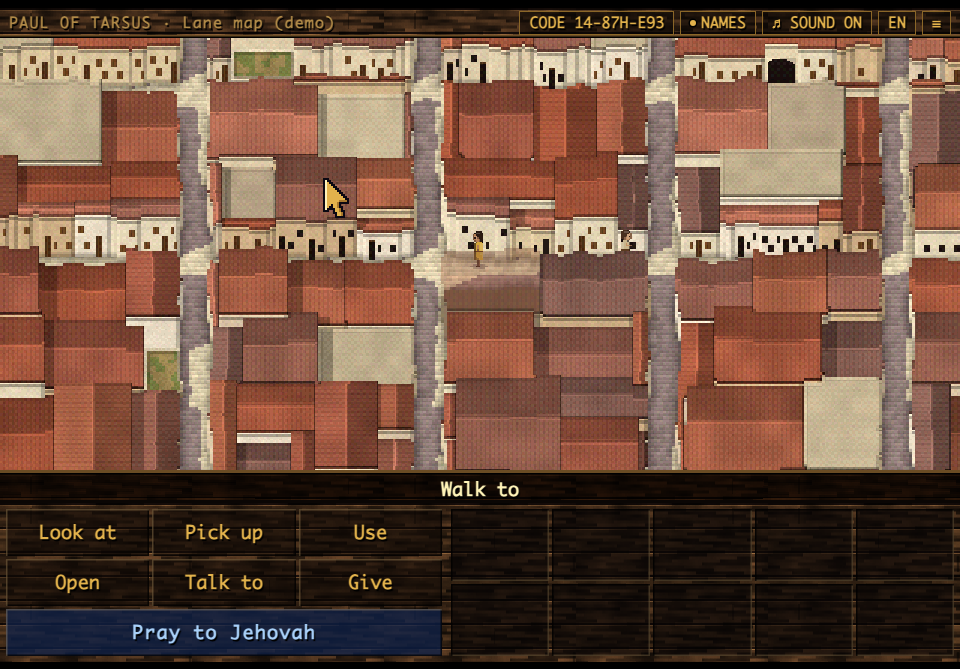
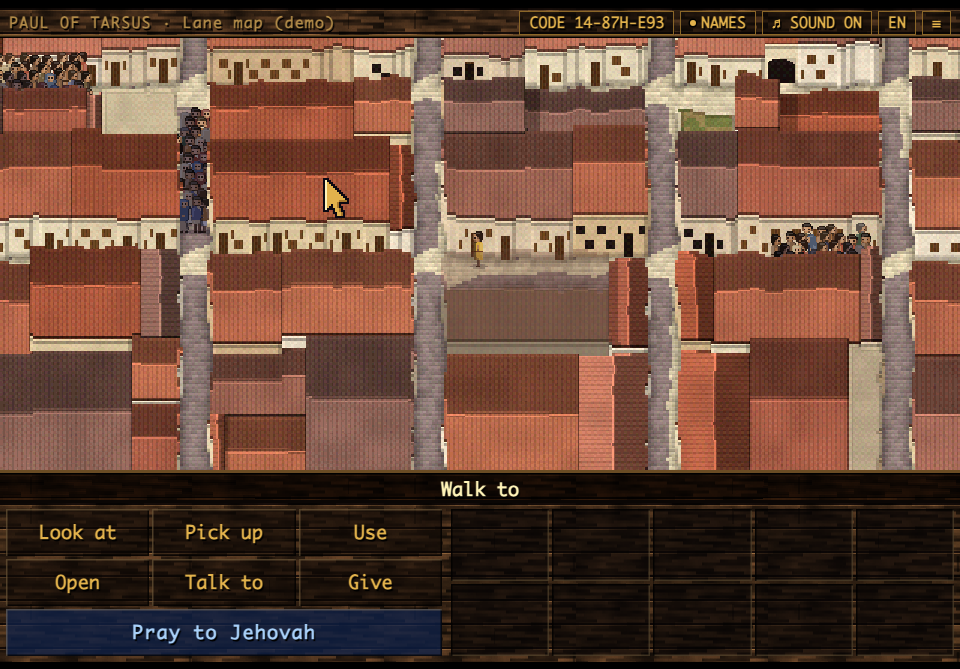
Lane map: houses as large as the prototype's, clearer roofs, and jams in the uproar
- Houses are built on larger lots (about as large against the people as
  the oblique prototype's), with wider doors and windows; few flat roofs,
  and most ridges run east and west. The roofs are modelled more clearly:
  lit and shaded slopes, a bright ridge, a dark line at the eaves. The
  sizes are settings of the map (lot, door, win, winH, doorH, flat, ew).
  The demo page keeps ?houses=small for comparison until the maintainer
  has chosen.
- Jams (def.jams): in the uproar three narrow streets are packed with
  people who cannot get through themselves; nobody passes them, so the
  runner has to go round, and he says so when he walks up to one or steers
  into it. The playtest checks that the way to the house is longer with
  them.

diff --git a/shared/lanes.js b/shared/lanes.js
@@ -34,6 +34,9 @@
                      source with doors:[x, y] and r sends them out of the doors of the houses within r of that place, never out of a house
                      whose shutters are bolted (cue), and the door stands open behind each for a moment
        zones         [{x, y, w, h, enter()}]: places the chapter is told of when whoever is played walks into them (a court, say)
+       jams          {variant: [{x, y, w, h, face}]}: narrow streets packed with people who cannot get through themselves; nobody passes
+                     them, and whoever is played stops before one (press is called, as when the crowd presses him back)
+       flat, ew      how often a roof is flat (0.1), and how wide a house must be against its depth for its ridge to run east and west (0.85)
        targets       {name:[x, y]}: places whose distance along the lanes the chapter asks for (dist), as the sound does
        pace(a)       'run' or 'walk', for whoever is played; press(): someone was pressed back by the crowd (the chapter may say so)
        room          the room's own fields: hs, mood, amb, enter, space ...
@@ -111,7 +114,7 @@ function houses(def,K){const W=def.w,H=def.h,S=def.lot||15,r=rng((def.seed||1)*3
     if(!n)break}
   for(let id=1;id<HS.length;id++){const L=px[id];if(!L||!L.length){HS[id]=null;continue}let x0=W,y0=H,x1=0,y1=0;for(const q of L){const x=q%W,y=(q/W)|0;if(x<x0)x0=x;if(x>x1)x1=x;if(y<y0)y0=y;if(y>y1)y1=y}
     /* hw: how tall the house's front wall stands, in room pixels: one storey or two, as in the city maps of those games */
-    const h=HS[id],bw=x1-x0+1,bh=y1-y0+1,flat=r()<.1,hw0=r()<.4?8+Math.round(r()*4)/2:11.5+Math.round(r()*5)/2;Object.assign(h,{x0,y0,x1,y1,n:L.length,ew:bw>=bh*.85,hw:hw0,flat,
+    const h=HS[id],bw=x1-x0+1,bh=y1-y0+1,flat=r()<(def.flat==null?.1:def.flat),hw0=r()<.4?8+Math.round(r()*4)/2:11.5+Math.round(r()*5)/2;Object.assign(h,{x0,y0,x1,y1,n:L.length,ew:bw>=bh*(def.ew||.85),hw:hw0,flat,
       roof:flat?FLAT[(r()*FLAT.length)|0]:ROOFS[(r()*ROOFS.length)|0],wall:WALLS[(r()*WALLS.length)|0],seed:(r()*1e6)|0});
     /* now and then a walled yard with a tree in it instead of a house */
     if(L.length>=90&&L.length<=420&&r()<.06){h.yard=true;h.flat=false;h.hw=2.5}
@@ -130,20 +133,21 @@ const SHADE=[.66,.62,.7];   /* the sun's shadow, multiplied in: a little cool */
    its door and its windows (feat): windows two columns wide on the ground floor, and on a house of two storeys windows above, set between
    those below and never over them, so that four of them never stand two by two. The doors are listed (doors): the crowd steps out of them.
    Worked out once, when the map is made. */
-const DOORH=7;   /* how tall a door is, in room pixels: about half a figure, as in the city maps of those games */
+const DOORH=7;   /* how tall a door is, in room pixels: about half a figure, as in the city maps of those games (def.doorH; def.door and def.win:
+                    how many room pixels wide a door and a window are, 2 by default; def.winH: how tall a window is, 2.5) */
 function fronts(M){const def=M.def,W=def.w,H=def.h,K=M.K,{hid,HS}=M.H,isH=i=>K[i]===BUILT&&hid[i]>0;
   const dn=new Int16Array(W*H),up=new Int16Array(W*H),lf=new Int16Array(W*H),rt=new Int16Array(W*H),end=new Uint8Array(W*H),below=new Int32Array(W*H);
   for(let x=0;x<W;x++){for(let y=H-1;y>=0;y--){const i=y*W+x;if(!isH(i))continue;const b=y<H-1?i+W:-1;if(b>=0&&isH(b)&&hid[b]===hid[i]){dn[i]=dn[b]+1;end[i]=end[b];below[i]=below[b]}else{dn[i]=0;end[i]=b<0?2:isH(b)?2:K[b]===KEEP?2:1;below[i]=b>=0&&isH(b)?hid[b]:0}}
     for(let y=0;y<H;y++){const i=y*W+x;if(!isH(i))continue;const a=i-W;up[i]=y>0&&isH(a)&&hid[a]===hid[i]?up[a]+1:0}}
   for(let y=0;y<H;y++){for(let x=0;x<W;x++){const i=y*W+x;if(!isH(i))continue;lf[i]=x>0&&isH(i-1)&&hid[i-1]===hid[i]?lf[i-1]+1:0}
     for(let x=W-1;x>=0;x--){const i=y*W+x;if(!isH(i))continue;rt[i]=x<W-1&&isH(i+1)&&hid[i+1]===hid[i]?rt[i+1]+1:0}}
-  const feat=new Uint8Array(W*H),doors=[];   /* feat: 1 door, 2 window above, 3 window below */
+  const feat=new Uint8Array(W*H),doors=[],DW=def.door||2,WW=def.win||2,PER=2*WW+1,DH=def.doorH||DOORH;   /* feat: 1 door, 2 window above, 3 window below */
   for(let id=1;id<HS.length;id++){const h=HS[id];if(!h||h.yard)continue;const r=rng(h.seed),cols=[];
     for(let x=h.x0;x<=h.x1;x++){let best=-1;for(let y=h.y1;y>=h.y0;y--){const i=y*W+x;if(hid[i]===id&&K[i]===BUILT&&dn[i]===0&&end[i]===1){best=i;break}}cols.push(best)}
-    let run=[];const flush=()=>{if(run.length>=5){const L=run.length,door=L>=6&&r()<.85?1+((r()*(L-3))|0):-9,free=k=>k>0&&k<L-1&&Math.abs(k-door)>1&&Math.abs(k-door-1)>1;
-        for(let k=0;k<L;k++){const i=run[k],m=(k+h.seed)%5;if(k===door||k===door+1)feat[i]=1;
-          else if(h.hw>=11&&(m===1||m===2)&&free(k))feat[i]=2;else if(h.hw>=6&&(m===3||m===4)&&free(k))feat[i]=3}
-        if(door>=0){const i=run[door],x=i%W,y=(i/W)|0;if(run[door+1]===i+1)doors.push({x,y,h:Math.min(h.hw-2,DOORH),house:h})}}run=[]};
+    let run=[];const flush=()=>{if(run.length>=DW+3){const L=run.length,door=L>=DW+4&&r()<.85?1+((r()*(L-DW-2))|0):-99,free=k=>k>0&&k<L-1&&(k<door-1||k>door+DW);
+        for(let k=0;k<L;k++){const i=run[k],m=(k+h.seed)%PER;if(k>=door&&k<door+DW)feat[i]=1;
+          else if(h.hw>=11&&m>=1&&m<=WW&&free(k))feat[i]=2;else if(h.hw>=6&&m>WW&&m<=2*WW&&free(k))feat[i]=3}
+        if(door>=0){const i=run[door],x=i%W,y=(i/W)|0;if(run[door+DW-1]===i+DW-1)doors.push({x,y,w:DW,h:Math.min(h.hw-2,DH),house:h})}}run=[]};
     for(const i of cols){if(i>=0&&(!run.length||i===run[run.length-1]+1))run.push(i);else{flush();if(i>=0)run.push(i)}}flush()}
   return{dn,up,lf,rt,end,below,feat,doors}}
 /* the ground: the lanes paved with small stones, the streets with slabs, the squares with great ones, darker at the foot of a wall and in
@@ -194,23 +198,26 @@ function sprite(M,h,v){const def=M.def,W=def.w,K=M.K,{hid,HS}=M.H,{dn,up,lf,rt,f
     else{const L=dL+dR,rp=L*.5;face=dL<rp?'W':'E';ridge=Math.abs(dL-rp)<.5}
     const edge=dDn<.6;let kk;
     if(h.flat){kk=1+(vn(nzA,x*.2,y*.2)-.5)*.1+(hash2(WX,WY,h.seed)-.5)*.05;if(dL<.6||dUp<.6)kk*=1.07;if(dR<.6)kk*=.84;if(edge)kk*=.7;if(dL>=.6&&dL<1.1||dUp>=.6&&dUp<1.1)kk*=.9}
-    else{kk=face==='S'?1:face==='W'?1.04:face==='N'?.8:.74;
+    else{/* the slopes as the sun in the west-south-west finds them, clearly apart, as in the city maps of those games: the south and west
+         slopes lit, the north and east ones in shade; a bright ridge, the back edge of the roof catching the light, a dark line at the eaves */
+      kk=face==='S'?1.06:face==='W'?1.1:face==='N'?.68:.64;
       /* the cover tiles run down each slope and stop short of the ridge, so that no stripe crosses it */
-      if(ridge)kk*=1.12;else if(face==='N'||face==='S'){if(WX%3===0)kk*=.92}else if(WY%3===0)kk*=.92;
-      if(edge)kk*=.66;if(dUp<.6)kk*=.9;kk*=1+(vn(nzA,x*.12,y*.12)-.5)*.18+(hash2(WX,WY,h.seed)-.5)*.05}
+      if(ridge)kk*=1.22;else if(face==='N'||face==='S'){if(WX%3===0)kk*=.88}else if(WY%3===0)kk*=.88;
+      if(edge)kk*=.55;else if(dUp<.6)kk*=1.12;kk*=1+(vn(nzA,x*.12,y*.12)-.5)*.14+(hash2(WX,WY,h.seed)-.5)*.05}
     /* a seam where two roofs meet, on the shadow side; the shade of a taller house to the west */
     if(sx&&x<W-1&&isH(i+1)&&hid[i+1]!==h.id)kk*=.6;if(sy&&isH(i+W)&&hid[i+W]!==h.id)kk*=.65;
     for(let q=1;q<=6;q++){const A=hAt(x-q,y+Math.round(q*.42));if(A&&A!==h.id&&HS[A]&&HS[A].hw-h.hw>=q*.8){kk*=.74;break}}
     put(X,Y,R0,kk)};
   /* the front wall, at one canvas pixel: u its height above the ground, ib the house's lowest pixel in this column */
+  const DH=def.doorH||DOORH,WH=def.winH||2.5;
   const win=(X,Y,sx,top)=>{if(s==='shut')put(X,Y,[110,76,46],sx?.82:1);else if(s==='head'&&top)put(X,Y,hex('#b07a52'),1);else put(X,Y,[36,28,26],1)};
   const front=(X,Y,u,ib,x,sx)=>{let kk=.98+(vn(nzB,x*.5,(T*2+Y)*.25)-.5)*.07+(hash2(x*2+sx,T*2+Y,h.seed)-.5)*.04;const east=rt[ib]+(1-sx)*.5<1.1,west=lf[ib]+sx*.5<.6;
     if(u>Hh-.5)kk*=1.08;else if(u>Hh-1.5)kk*=.72;else if(u<1)kk*=.78;else if(u<1.5)kk*=.9;
     if(east)kk*=.8;else if(west)kk*=1.05;
     const fi=feat[ib];
-    if(fi===1&&u<Math.min(Hh-2.5,DOORH)){if(s==='open'&&u<Math.min(Hh-2.5,DOORH)-.5)put(X,Y,[32,24,20],1);else put(X,Y,[100,68,42],sx?.92:.74);return}
-    if(fi===2&&u>Hh-6&&u<Hh-3.5){win(X,Y,sx,u>Hh-4.8);return}
-    if(fi===3&&u>2.5&&u<5){win(X,Y,sx,false);return}
+    if(fi===1&&u<Math.min(Hh-2.5,DH)){if(s==='open'&&u<Math.min(Hh-2.5,DH)-.5)put(X,Y,[32,24,20],1);else put(X,Y,[100,68,42],sx?.92:.74);return}
+    if(fi===2&&u>Hh-3.5-WH&&u<Hh-3.5){win(X,Y,sx,u>Hh-3.5-WH/2);return}
+    if(fi===3&&u>2.5&&u<2.5+WH){win(X,Y,sx,false);return}
     put(X,Y,W0,kk)};
   for(let x=X0;x<=X1;x++){const runs=[];let a=-1;
     for(let y=h.y0;y<=B+1;y++){const on=y<=B&&hid[y*W+x]===h.id&&K[y*W+x]===BUILT;if(on&&a<0)a=y;else if(!on&&a>=0){runs.push([a,y-1]);a=-1}}
@@ -296,9 +303,12 @@ function crown(g,x,y,s,c){c=c||'#4a6038';const r=rng(Math.round(x*31+y*17));for(
   for(let i=0;i<5;i++)R(g,x-s*.5+r()*s*.5,y-s*.5+r()*s*.5,.5,.5,tint(c,.28))}
 
 /* ============ THE WALK GRID: cells of two room pixels, and the ways through them ============ */
+/* jams: in a variant, narrow streets packed with people who cannot get through themselves (def.jams: {variant: [{x, y, w, h, face}]}).
+   Nobody passes them, whoever is played included: he has to find another way. */
+const jamsOf=(def,v)=>(def.jams&&def.jams[v])||[];
 function grid(M,v){if(M.G[v])return M.G[v];const def=M.def,W=def.w,H=def.h,GW=Math.ceil(W/CS),GH=Math.ceil(H/CS),K=M.K;
   const ok=new Uint8Array(W*H);for(let i=0;i<W*H;i++)ok[i]=OPEN(K[i])?1:0;
-  for(const b of(def.solid||[]).concat((def.block&&def.block[v])||[]))for(let y=Math.max(0,Math.floor(b[1]));y<Math.min(H,Math.ceil(b[1]+b[3]));y++)for(let x=Math.max(0,Math.floor(b[0]));x<Math.min(W,Math.ceil(b[0]+b[2]));x++)ok[y*W+x]=0;
+  for(const b of(def.solid||[]).concat((def.block&&def.block[v])||[],jamsOf(def,v).map(j=>[j.x,j.y,j.w,j.h])))for(let y=Math.max(0,Math.floor(b[1]));y<Math.min(H,Math.ceil(b[1]+b[3]));y++)for(let x=Math.max(0,Math.floor(b[0]));x<Math.min(W,Math.ceil(b[0]+b[2]));x++)ok[y*W+x]=0;
   /* how far each pixel lies from anything that cannot be walked: a figure keeps a pixel and a half from every wall */
   const dist=new Float32Array(W*H);for(let i=0;i<W*H;i++)dist[i]=ok[i]?99:0;
   for(let y=0;y<H;y++)for(let x=0;x<W;x++){const i=y*W+x;if(!dist[i])continue;let m=dist[i];if(x>0)m=Math.min(m,dist[i-1]+1);if(y>0)m=Math.min(m,dist[i-W]+1);if(x>0&&y>0)m=Math.min(m,dist[i-W-1]+1.41);if(x<W-1&&y>0)m=Math.min(m,dist[i-W+1]+1.41);if(!x||!y||x===W-1)m=Math.min(m,1);dist[i]=m}
@@ -460,6 +470,10 @@ addEventListener('blur',()=>{for(const p of plans())p.keys.clear()});
 function make(id,def){
   const M={id,def,G:{},S:{},SEEN:{},crowd:[],dust:[],hits:[],t:0,warm:null,pressT:-99,pushT:0,lookT:0,keys:new Set()};
   M.K=ground(def);M.H=houses(def,M.K);M.F=fronts(M);M.doors=M.F.doors;M.cov=cover(M);
+  /* the people of each jam, packed shoulder to shoulder: most face the way they want to go, a few look back or about them */
+  M.J={};for(const v in def.jams||{}){const r=rng((def.seed||1)*7+v.length),out=M.J[v]=[];
+    for(const j of def.jams[v])for(let y=j.y+3;y<=j.y+j.h-.5;y+=3)for(let x=j.x+2+(y%6<3?0:2);x<=j.x+j.w-2;x+=4.2){const q=r(),back={E:'W',W:'E',N:'S',S:'N'}[j.face||'E'];
+      out.push({x:x+(r()-.5)*1.4,y:y+(r()-.5)*1,look:(def.folk||FOLK)[(r()*(def.folk||FOLK).length)|0],D:q<.72?j.face||'E':q<.86?back:q<.93?'S':'N',ph:r()*9,jam:j})}}
   M.nzA=lattice((def.seed||1)*13+1,32);M.nzB=lattice((def.seed||1)*17+5,64);
   const vNow=()=>def.variant?def.variant():'';
   const g=()=>grid(M,vNow());
@@ -470,7 +484,7 @@ function make(id,def){
   /* route: the points to pass on the way to x, y; the way ends where x, y is, or on the walkable place nearest to it that can be reached.
      Whoever is played, when the player clicks, goes only by the lanes he knows: where none of them leads to x, y, he goes as near to it as
      they take him, and the way is partial (the engine then does not act on what was clicked). A script, or all, takes every lane. */
-  M.route=(a,x,y,all)=>{const Q=g();let s=cOf(Q,a.x,a.y);if(!Q.cell[s])s=nearest(Q,a.x,a.y);if(s<0)return null;const cp=Q.comp[s];
+  M.route=(a,x,y,all)=>{const Q=g();if(!all&&a===PC()&&!G.busy)M.toJam=jamsOf(def,vNow()).some(j=>x>=j.x-2&&x<=j.x+j.w+2&&y>=j.y-2&&y<=j.y+j.h+2);let s=cOf(Q,a.x,a.y);if(!Q.cell[s])s=nearest(Q,a.x,a.y);if(s<0)return null;const cp=Q.comp[s];
     let t=cOf(Q,x,y),exact=Q.cell[t]&&Q.comp[t]===cp;if(!exact){t=nearest(Q,x,y,cp);if(t<0)return null}
     let kn=null,partial=false;
     if(!all&&!M.seeAll&&a===PC()&&!G.busy){kn=known(Q);kn[s]=1;const r=reach(Q,s,kn);
@@ -500,12 +514,12 @@ function make(id,def){
   /* doorsOf: the doors a source sends people out of: within r of its place, of houses whose shutters are not bolted, onto a lane that
      reaches where they make for */
   const doorsOf=(G,s,v)=>{const k='d:'+v;if(s[k])return s[k];const cue=def.cue||(()=>'open'),f=sinkField(G,s.to,crowdDef().sinks[s.to]);
-    return s[k]=M.doors.filter(d=>{if(Math.hypot(d.x+1-s.doors[0],d.y-s.doors[1])>s.r||cue(d.house,v)==='shut')return false;const c=cOf(G,d.x+1,d.y+2.5);return G.cell[c]&&isFinite(f[c])})};
+    return s[k]=M.doors.filter(d=>{if(Math.hypot(d.x+d.w/2-s.doors[0],d.y-s.doors[1])>s.r||cue(d.house,v)==='shut')return false;const c=cOf(G,d.x+d.w/2,d.y+2.5);return G.cell[c]&&isFinite(f[c])})};
   function spawn(G,cd,dt){if(M.crowd.length>=(cd.max||160))return;const v=vNow();
     cd.sources.forEach((s,k)=>{const per=(s.on||10)+(s.off||0),ph=((M.t+(s.ph||0))%per+per)%per;if(ph>(s.on||10))return;
       src[k]=(src[k]||0)+s.rate*dt;while(src[k]>=1){src[k]--;let x,y,door=null;
         /* out of a door: he steps out at the foot of the wall, and the door stands open behind him for a moment */
-        if(s.doors){const L=doorsOf(G,s,v);if(!L.length)continue;door=L[(Math.random()*L.length)|0];x=door.x+1;y=door.y+2.5}
+        if(s.doors){const L=doorsOf(G,s,v);if(!L.length)continue;door=L[(Math.random()*L.length)|0];x=door.x+door.w/2;y=door.y+2.5}
         /* or in along a street from beyond the map, or through a gate */
         else{const r=s.r||3;x=s.x+(Math.random()-.5)*2*r;y=s.y+(Math.random()-.5)*2*r}
         if(!G.cell[cOf(G,x,y)]||M.crowd.some(a=>Math.abs(a.x-x)<4&&Math.abs(a.y-y)<4))continue;
@@ -554,6 +568,10 @@ function make(id,def){
     if(w){w.res(false)}pc.walk={x:px,y:py,path:[],rest:0,res:()=>{}};pc.pushed=1;M.pushT=.5;
     if(def.press&&M.t-M.pressT>7){M.pressT=M.t;def.press()}}
   /* keys: the arrow keys or W A S D steer whoever is played on the map, a few steps at a time, sliding along a wall */
+  /* jammed: he walked up to a jam, or steers into one, and has stopped before it */
+  function jammed(){const pc=PC();if(pc.room!==id)return;const was=M.wasWalking;M.wasWalking=!!pc.walk;
+    const near=jamsOf(def,vNow()).some(j=>pc.x>=j.x-5&&pc.x<=j.x+j.w+5&&pc.y>=j.y-5&&pc.y<=j.y+j.h+5);
+    if(near&&def.press&&M.t-M.pressT>7&&(was&&!pc.walk&&M.toJam||M.keys.size&&!pc.walk)){M.toJam=false;M.pressT=M.t;def.press()}}
   function steer(){const pc=PC();if(pc.room!==id||!M.keys.size||G.busy||G.scene||M.pushT>0)return;
     const k=M.keys;let x=(k.has('right')?1:0)-(k.has('left')?1:0),y=(k.has('down')?1:0)-(k.has('up')?1:0);if(!x&&!y)return;const L=Math.hypot(x,y);x/=L;y/=L;
     const Q=g(),ok=(dx,dy)=>clear(Q,pc.x,pc.y,pc.x+dx*6,pc.y+dy*6);let dx=x,dy=y;
@@ -575,7 +593,7 @@ function make(id,def){
     for(const s of S){let to=1;if(inn&&pc.x+3>s.X0&&pc.x-3<s.X1+1&&pc.y>s.T&&pc.y<s.B+1)for(const st of s.strips)if(pc.y<st.front+.5&&pc.y>st.top&&pc.x+3>st.x0&&pc.x-3<st.x1+1){to=FADE;break}
       s.alpha+=(to-s.alpha)*k;if(Math.abs(to-s.alpha)<.01)s.alpha=to}}
   M.tick=(dt,ts)=>{const v=vNow();if(M.warm!==v){M.reset();M.warm=v;sprites(M,v);M.dustOn=!!(crowdDef()&&crowdDef().dust);if(crowdDef()){for(let i=0;i<300;i++){M.t+=.1;step(.1)}}}
-    M.t+=dt;step(dt);press(dt);steer();zones();look(dt);fades(dt)};
+    M.t+=dt;step(dt);press(dt);steer();jammed();zones();look(dt);fades(dt)};
 
   /* --- drawing --- */
   const facingOf=o=>{if(o.walk&&!o.pushed&&o.mvx!=null){const x=o.mvx,y=o.mvy;return Math.abs(y)>Math.abs(x)*1.15?(y<0?'N':'S'):x<0?'W':'E'}
@@ -599,8 +617,11 @@ function make(id,def){
     for(const s of sprites(M,v)){if(s.X1<cam-2||s.X0>cam+vw+2||s.B<cy-2||s.T>cy+vh+16)continue;
       for(const st of s.strips)depth(st.front+.5,()=>{const a=s.alpha;if(a<.999)gx.globalAlpha=a;
         gx.drawImage(s.c,(st.x0-s.X0)*2,0,(st.x1-st.x0+1)*2,(st.front+1-s.T)*2,st.x0,s.T,st.x1-st.x0+1,st.front+1-s.T);if(a<.999)gx.globalAlpha=1})}
+    /* the people of the jams: they stand, step from foot to foot now and then, and turn their heads */
+    for(const a of M.J[v]||[]){if(a.x<cam-8||a.x>cam+vw+8||a.y<cy-4||a.y>cy+vh+16)continue;const k=Math.floor(M.t*.7+a.ph),turn=k%7===3,shift=(k%5===1);
+      depth(a.y,()=>drawFolk(gx,a.look,a.x,a.y,turn?{E:'S',W:'S',N:'E',S:'W'}[a.D]:a.D,shift?'p1':'stand',false,0))}
     /* a door that someone has just stepped out of stands open */
-    for(const a of M.crowd)if(a.door&&M.t-a.t0<.9){const d=a.door;depth(d.y+.6,()=>R(gx,d.x,d.y+1-d.h,2,d.h,'#241a14'))}
+    for(const a of M.crowd)if(a.door&&M.t-a.t0<.9){const d=a.door;depth(d.y+.6,()=>R(gx,d.x,d.y+1-d.h,d.w,d.h,'#241a14'))}
     for(const a of M.crowd){if(a.x<cam-8||a.x>cam+vw+8||a.y<cy-4||a.y>cy+vh+14)continue;
       const o=a.look;
       const L=Math.hypot(a.mx||0,a.my||0)>.5?[a.mx,a.my]:[a.dx,a.dy],D=Math.abs(L[1])>Math.abs(L[0])*1.15?(L[1]<0?'N':'S'):L[0]<0?'W':'E',fr=a.still>.25?'stand':frameOf(run,a.gone+50,null,STRIDE[run?'run':'walk']);

diff --git a/tools/playtest-harness.html b/tools/playtest-harness.html
@@ -487,9 +487,9 @@
       /* every lane hangs together with every other: the walkable ground is one piece, but for a cell or two in a notch of a wall */
       for(const v of['surge','quiet']){const Q=M.G[v]||(F.two=v==='quiet'?1:0,M.walkable(0,0),M.G[v]),n={};for(let i=0;i<Q.comp.length;i++)if(Q.cell[i])n[Q.comp[i]]=(n[Q.comp[i]]||0)+1;
         const big=Object.values(n).filter(c=>c>=12);ok(big.length===1,'in the '+v+' every lane can be reached from every other: '+big.length+' piece'+(big.length>1?'s: '+JSON.stringify(n):''))}delete F.two
-      /* every lane can be walked along its middle, from end to end (but for what a pass shuts) */
+      /* every lane can be walked along its middle, from end to end (but for what a pass shuts, and the jams of the uproar) */
       {F.two=0;M.walkable(0,0);const Q=M.G.surge,bad=[];D.lanes.forEach((l,k)=>{const p=l.pts;for(let i=2;i<p.length;i+=2){const ax=p[i-2],ay=p[i-1],dx=p[i]-ax,dy=p[i+1]-ay,n=Math.ceil(Math.hypot(dx,dy));
-          for(let j=0;j<=n;j++){const x=ax+dx*j/n,y=ay+dy*j/n;if(x<4||y<4||x>D.w-4||y>D.h-4||D.keep.some(q=>{const P=q.poly;let c=false;for(let a=0,m=P.length/2,b=m-1;a<m;b=a++){const xi=P[2*a],yi=P[2*a+1],xj=P[2*b],yj=P[2*b+1];if((yi>y)!==(yj>y)&&x<(xj-xi)*(y-yi)/(yj-yi)+xi)c=!c}return c}))continue;
+          for(let j=0;j<=n;j++){const x=ax+dx*j/n,y=ay+dy*j/n;if(x<4||y<4||x>D.w-4||y>D.h-4||(D.jams&&D.jams.surge||[]).some(J=>x>=J.x-4&&x<=J.x+J.w+4&&y>=J.y-4&&y<=J.y+J.h+4)||D.keep.some(q=>{const P=q.poly;let c=false;for(let a=0,m=P.length/2,b=m-1;a<m;b=a++){const xi=P[2*a],yi=P[2*a+1],xj=P[2*b],yj=P[2*b+1];if((yi>y)!==(yj>y)&&x<(xj-xi)*(y-yi)/(yj-yi)+xi)c=!c}return c}))continue;
             if(!Q.cell[(clamp(Math.floor(y/2),0,Q.GH-1))*Q.GW+clamp(Math.floor(x/2),0,Q.GW-1)]&&!M.walkable(x+1,y)&&!M.walkable(x-1,y)&&!M.walkable(x,y+1)&&!M.walkable(x,y-1))bad.push([k,Math.round(x-X),Math.round(y)])}}});
         delete F.two;const one=[];for(const b of bad)if(!one.some(o=>o[0]===b[0]&&Math.hypot(o[1]-b[1],o[2]-b[2])<8))one.push(b);
         ok(!bad.length,'every lane can be walked along its middle'+(bad.length?'. NOT AT (lane, x in the city, y): '+JSON.stringify(one.slice(0,16)):''))}}
@@ -557,6 +557,10 @@
     /* he goes only by the lanes he knows: from where he starts, a click on the house leads him only as near as the lanes he has seen go */
     {M.seeAll=0;M.SEEN={};place(R,'lanes14',...C.ent.lanes14);viewOf(R);await wait(500);const r=M.route(R,...D.targets.house),e=r&&r[r.length-1],full=M.route(R,...D.targets.house,true);M.seeAll=1;
       ok(r&&r.partial&&Math.hypot(e[0]-D.targets.house[0],e[1]-D.targets.house[1])>60&&full&&!full.partial,'a click goes only by the lanes the runner knows: from the start, a click on the house takes him only as near as those go')}
+    /* in the uproar narrow streets are jammed by people who cannot get through themselves: nobody passes them, so the way to the house goes round */
+    {const way=()=>{const r=M.route(R,...D.targets.house,true);if(!r)return 0;let len=0,x=R.x,y=R.y;for(const[a,b]of r){len+=Math.hypot(a-x,b-y);x=a;y=b}return len},js=D.jams.surge;
+      place(R,'lanes14',...C.ent.lanes14);const with_=way(),jp=M.J.surge.length,blocked=js.every(j=>!M.walkable(j.x+j.w/2,j.y+j.h/2));D.jams.surge=[];M.G={};const without=way();D.jams.surge=js;M.G={};
+      ok(jp>30&&blocked&&with_>without+20&&!(D.jams.quiet||[]).length,'in the uproar '+js.length+' narrow streets are jammed by '+jp+' people who cannot get through: the way to the house is '+Math.round(with_)+' pixels, where it would be '+Math.round(without)+'; after it, none')}
     /* the house is reached only through its covered passage: the way to it runs under the house built over the lane */
     {const b=D.bridges[0],r=M.route(R,...D.targets.house,true);let under=false,x=R.x,y=R.y;for(const[a,c]of r){for(let t=0;t<=1;t+=.05){const px=x+(a-x)*t,py=y+(c-y)*t;if(px>=b.x&&px<b.x+b.w&&py>=b.y&&py<b.y+b.d)under=true}x=a;y=c}
       ok(D.bridges.length===3&&under,'the house is reached through a covered passage, and two quiet courts the same way')}

diff --git a/tools/lanes-demo.js b/tools/lanes-demo.js
@@ -120,7 +120,14 @@ const lanes=CITY.map(l=>Object.assign({},l,{pts:pts(l.pts),w:Math.round(l.w*SC)}
 const keep=KEEP.map(k=>({poly:pts(k.poly)})).concat([{poly:[0,0,OX,0,OX,H,0,H]}]);   /* and the harbor, west of the wall */
 /* the covered passages: a house over the lane, its front with an archway towards the lane it leaves */
 const bridges=Object.values(ARCH).map(([x,y0,y1])=>({x:X(x)-7,y:Y(y0),w:15,d:Math.round(Y(y1)-Y(y0)),H:13,gap:[X(x)-4,X(x)+4]}));
-const M=L.make('lanes14',{w:W,h:H,seed:1414,lot:25,grid:true,lanes,open,keep,bridges,
+/* the houses as large against the people as the oblique prototype's were: few flat roofs, most ridges running east and west.
+   PREVIEW (to be removed once the maintainer has chosen): ?houses=small on the demo page builds them as before, for comparison */
+const SMALL=typeof location!=='undefined'&&/[?&]houses=small/.test(location.search);
+/* in the uproar, narrow streets packed with people who cannot get through themselves: on the runner's straight way west, on the street
+   below the house, and on the street from the north quarter down to the harbor street; he has to go round */
+const JAMS=[[378,112,26,12,'E'],[178,68,26,12,'E'],[222,82,16,26,'S']].map(([x,y,w,h,face])=>({x:X(x),y:Y(y),w:q(w),h:q(h),face}));
+const M=L.make('lanes14',{w:W,h:H,seed:1414,lot:SMALL?25:38,door:SMALL?2:3,win:SMALL?2:3,winH:SMALL?2.5:3,doorH:SMALL?7:8,flat:SMALL?.1:.05,ew:SMALL?.85:.6,grid:true,
+  jams:{surge:JAMS},lanes,open,keep,bridges,
   solid:STALLS.slice(0,11).map(box),block:{surge:STALLS.slice(11).map(box),quiet:GATES.concat(DOWN).map(box)},
   variant:V,targets:{house:[X(HOUSE[0]),Y(HOUSE[1])],gate:[X(GATE[0]),Y(GATE[1])]},
   pace:a=>a===RUN?'run':'walk',

diff --git a/docs/development.md b/docs/development.md
@@ -99,7 +99,7 @@ A new line: write its key in the code, its English in `lang/en`, its text in eve
 
 **The installed app.** `sw.js` and `shared/pwa.js` make the game installable and playable offline. The page loads `shared/pwa.js` only when it is served over http(s), never from disk, so the playtest's pages and a copy opened from a folder are unchanged. It paints the icon from the P of the title logo and builds the manifest as a blob: there is no icon file and no manifest file. The service worker takes the network first, so that a player always gets one version's files together, and falls back to what it has kept; the page asks it to keep every chapter, shared file and language file ahead of time. A new file in `shared/` is added to `FILES` in `shared/pwa.js` (the playtest fails if it is missing); chapters and languages are found from `CHAP` and `LANGS`. An installed icon is `docs/screenshots/pwa-icon.png`.
 
-**The lane map.** `shared/lanes.js` makes a room of its own kind: a city seen at a slant from above, taller and wider than the view, which follows whoever is played across and up and down (`G.camY`; `ART[id].h` is the room's height, and `camAt` places the view), and which the player may zoom (`G.zoom`, glided to `G.zoomTo`; `zoomOf` and `zoomNow` say what a room is shown at, and the click, the labels, the speech and the flying item all follow it). A chapter that has one names the file in its line of the manifest (`needs:['lanes']`), and `loadLevel` loads it before the chapter's own file; the chapter then calls `SHARED.lanes.make(id, def)` with the city's size, its lanes as lines with a width (`lanes`), its squares and courts (`open`), the ground it paints itself (`keep`: a theater, a hill, a wall, a harbor), its covered passages (`bridges`: a house over a lane, with an archway), what it paints on a house front (`marks`: a door), what stands in the way (`solid`, and `block` for one variant only), the crowd of each variant (`crowd`: where people make for, and where they come from, in waves, by a gate or a street or out of the doors of the houses), the places it wants to know when he walks into them (`zones`) and the places whose distance along the lanes it asks for (`targets`). The houses are laid out by the file itself, in rows of boxes cut by the lanes, each with its height (`def.height` may set it), its front, door and windows. The ground is the room's backdrop (`paintGround`, then the chapter's `paint`); each house is a sprite of its own, its roof as high above its ground as its front is tall, cut into strips of columns that take their place among the people by the row of their front, as a room's props do, and a house fades (`FADE`) while whoever is played is behind it. The engine hands the map what differs from a room through `ROOMS[id].plan`: `route` (a click walks along the lanes by the shortest way he knows: the lanes he has seen on the screen where no house hides them, and those within eighteen cells of where he has been; where those do not reach, he goes as near as they take him without a long way round, the way is `partial`, and the engine does not act on what was clicked; a script walks by every lane), `tick` (the crowd, what he comes to know, the fading, and the arrow keys or W A S D, which steer on the map only), `draw` (the dots of the way and its diamond, the houses), `drawActor` (the figures), `pace` and `stride` (a runner runs, anyone else walks; the frame of a walk or a run comes from the distance covered), `fig` (the size of a figure, for the labels, the speech and a click on a person) and `face` (he turns to what he walked up to, up or down the map too). The crowd presses whoever is played back when three of it come up against him within a second and a half, walking against a packed street, across it, or standing in it; in a gap between waves, or in a back lane, nobody does. The chapter may have him say so (`press`). `M.dist(name, x, y)` is the way along the lanes to a place, which the room's sound can follow: in the demo the roar of the crowd dies down as the runner nears the house. The searches keep their costs in 64 bits: a cost kept in 32 and rounded up is found better again and again, and the search never ends. Its playable demo is `tools/lanes-demo.js`, a draft of Ephesus for Chapter Fourteen (issue #35): its plan follows *Insight* ("Ephesus") and the Study Edition's media on Acts 19:29 for the theater, the harbor street and the agora, and the maintainer's notes for the grid (`grid:true` lets its streets cross; the playtest then counts the crossings instead of failing on them), which the playtest plays (`lanesall`, in every language) and pictures (`lanes`, `lanes2`, `lanesfolk`, and `lanesmap`, the whole map in both passes with the ways the test walks). A member of a party who is not Paul is given a hotspot's handlers through `h.as[his id]`, on a lane map as in any room.
+**The lane map.** `shared/lanes.js` makes a room of its own kind: a city seen at a slant from above, taller and wider than the view, which follows whoever is played across and up and down (`G.camY`; `ART[id].h` is the room's height, and `camAt` places the view), and which the player may zoom (`G.zoom`, glided to `G.zoomTo`; `zoomOf` and `zoomNow` say what a room is shown at, and the click, the labels, the speech and the flying item all follow it). A chapter that has one names the file in its line of the manifest (`needs:['lanes']`), and `loadLevel` loads it before the chapter's own file; the chapter then calls `SHARED.lanes.make(id, def)` with the city's size, its lanes as lines with a width (`lanes`), its squares and courts (`open`), the ground it paints itself (`keep`: a theater, a hill, a wall, a harbor), its covered passages (`bridges`: a house over a lane, with an archway), what it paints on a house front (`marks`: a door), what stands in the way (`solid`, and `block` for one variant only), the jams of people in a variant (`jams`: narrow streets packed with people who cannot get through themselves, drawn standing and shuffling, and blocked for everyone), the size of the houses and their doors and windows (`lot`, `door`, `win`, `winH`, `doorH`, `flat`, `ew`), the crowd of each variant (`crowd`: where people make for, and where they come from, in waves, by a gate or a street or out of the doors of the houses), the places it wants to know when he walks into them (`zones`) and the places whose distance along the lanes it asks for (`targets`). The houses are laid out by the file itself, in rows of boxes cut by the lanes, each with its height (`def.height` may set it), its front, door and windows. The ground is the room's backdrop (`paintGround`, then the chapter's `paint`); each house is a sprite of its own, its roof as high above its ground as its front is tall, cut into strips of columns that take their place among the people by the row of their front, as a room's props do, and a house fades (`FADE`) while whoever is played is behind it. The engine hands the map what differs from a room through `ROOMS[id].plan`: `route` (a click walks along the lanes by the shortest way he knows: the lanes he has seen on the screen where no house hides them, and those within eighteen cells of where he has been; where those do not reach, he goes as near as they take him without a long way round, the way is `partial`, and the engine does not act on what was clicked; a script walks by every lane), `tick` (the crowd, what he comes to know, the fading, and the arrow keys or W A S D, which steer on the map only), `draw` (the dots of the way and its diamond, the houses), `drawActor` (the figures), `pace` and `stride` (a runner runs, anyone else walks; the frame of a walk or a run comes from the distance covered), `fig` (the size of a figure, for the labels, the speech and a click on a person) and `face` (he turns to what he walked up to, up or down the map too). The crowd presses whoever is played back when three of it come up against him within a second and a half, walking against a packed street, across it, or standing in it; in a gap between waves, or in a back lane, nobody does. The chapter may have him say so (`press`). `M.dist(name, x, y)` is the way along the lanes to a place, which the room's sound can follow: in the demo the roar of the crowd dies down as the runner nears the house. The searches keep their costs in 64 bits: a cost kept in 32 and rounded up is found better again and again, and the search never ends. Its playable demo is `tools/lanes-demo.js`, a draft of Ephesus for Chapter Fourteen (issue #35): its plan follows *Insight* ("Ephesus") and the Study Edition's media on Acts 19:29 for the theater, the harbor street and the agora, and the maintainer's notes for the grid (`grid:true` lets its streets cross; the playtest then counts the crossings instead of failing on them), which the playtest plays (`lanesall`, in every language) and pictures (`lanes`, `lanes2`, `lanesfolk`, and `lanesmap`, the whole map in both passes with the ways the test walks). A member of a party who is not Paul is given a hotspot's handlers through `h.as[his id]`, on a lane map as in any room.
 
 **The travel map.** `shared/map.js` holds the geography, and its own music: the sting and the chime as a leg arrives are data (`STING`, `CHIME`), semitones above the tonic and an octave, played through the engine's `tune()`, so they follow each chapter's key without naming one. It also holds `PLACES` (each city's longitude and latitude, and the side its name goes on), the coasts, islands, lakes and ranges, and `VIA`, waypoints for legs that should not run straight. A chapter declares the way out of it as `route:[['jerusalem','caesarea','new'],['caesarea','tarsus','new sea']]`, with the earlier legs first and `new` on the ones to draw now, and calls `await journey()` in its ending. Check a new leg against the others: the playtest fails if two routes cross. A name sits on the side its place gives it (`lab`, and `dy` to raise or lower it). Where that side would lie across one of a chapter's routes, the chapter says where the name goes on its own map: `labels:{salamis:{lab:'r',dy:4.2}}`. A road travelled a second time is not drawn a second time: two dotted lines along one curve cross each other. Chapter Six ends by showing its roads at once (`journey(route,{instant:1})`), moving the light from city to city (`state.pulse`), and drawing only the new legs with `go(from,to)`. Chapter Ten tells its road on the map three times and calls `SHARED.map.journey` itself, each time with the legs and the places of the names for that map (`{labels:{thessalonica:{lab:'t',dx:-7}}}`: a name may be moved sideways with `dx` as well as up or down with `dy`, and set small with `sz`); `night:1` darkens the window for a road travelled by night. Chapter Twelve opens on a map with two cities and no road, because the account names none: `journey([], {seen:['athens','corinth'], pulse:'corinth'})` shows places that no leg reaches and says where the light stands. It ends by looking back (`lookBack`): five maps with `instant:1`, journey by journey, so that no two roads of the twelve chapters cross on one of them. The playtest checks each of this chapter's maps for names that cross a line, run out of the window or lie on another name (`SHARED.map.window()` says where the window lies); a place that was only passed through may keep its place on a road without a dot or a name (`labels:{amphipolis:{hide:1}}`). A line told over such a map is said with `narr(text,{low:1})`, which stands it at the foot of the view, because the road runs along the window's upper edge.
 

diff --git a/CONTRIBUTING.md b/CONTRIBUTING.md
@@ -101,7 +101,7 @@ The [Terms of Use](https://www.jw.org/en/terms-of-use/) of jw.org (which cover i
 - What stands on a sloping line stands on it. The battlements of a wall that runs away from us are blocks whose foot follows the slope of the wall's top: an upright block set on a slope leaves a wedge of sky under its far corner. Look at such a wall enlarged.
 - Figures move when they speak, and the movement is drawn to the same standard: every frame of a mouth, a chin, a head or a hand is placed by hand in the figure painter, never made by scaling or turning another frame. After adding or changing one, look at all of them enlarged on `cast-talk.png` (`node tools/playtest.mjs cast`), for a chin or a beard that has come apart and for cross shapes; the playtest fails if a pose is in more than one piece. A figure that bows keeps its head still. A statue never moves.
 - A walk follows the ground and never a clock: the frame comes from the distance covered, so that a foot that stands is not carried along, a step is heard as a foot lands, and a walk begins and ends on a shorter step. Everybody walks at the same speed, so that companions stay together; what differs from one person to the next is the step. Every frame of a stride is worked out by the figure painter for every look; after a change, look at them enlarged on `cast-walk.png` (`node tools/playtest.mjs cast`).
-- A lane map (`shared/lanes.js`) shows a city at a slant from above, as the city maps of those games did: every house stands up from its ground, its front wall of one or two storeys towards us with its door and windows, and its roof above, so that it hides the lane behind it; while whoever is played walks behind a house it fades, so that he is never lost from sight. The people on it are figures of their own, about fourteen room pixels tall, drawn by hand pixel by pixel like the room figures, with a head large enough to tell which way they face and no face to read. Their walk follows the ground as in the rooms. Where the story has people hurry, as a runner with a message and a crowd that rushes to the theater, they run, all at one pace of their own, and whoever walks keeps the walking pace: on the map Paul walks. A crowd comes from somewhere: in by a gate or along a street from beyond the map, or out of the door of a house, which stands open behind him for a moment; nobody appears out of the open ground, and nobody comes out of a house whose shutters are bolted. A click walks along the lanes, shown as a row of dots, by the lanes he knows: those he has seen on the screen where no house hides them, and those round every corner he has come by, so that the way through a maze is found by the player and not by the path-finder. The player may zoom the map with two fingers, the mouse wheel, or + and -. Every pose of the map's figures is one piece (`node tools/playtest.mjs lanesfolk` shows them all enlarged).
+- A lane map (`shared/lanes.js`) shows a city at a slant from above, as the city maps of those games did: every house stands up from its ground, its front wall of one or two storeys towards us with its door and windows, and its roof above, so that it hides the lane behind it; while whoever is played walks behind a house it fades, so that he is never lost from sight. The people on it are figures of their own, about fourteen room pixels tall, drawn by hand pixel by pixel like the room figures, with a head large enough to tell which way they face and no face to read. Their walk follows the ground as in the rooms. Where the story has people hurry, as a runner with a message and a crowd that rushes to the theater, they run, all at one pace of their own, and whoever walks keeps the walking pace: on the map Paul walks. A crowd comes from somewhere: in by a gate or along a street from beyond the map, or out of the door of a house, which stands open behind him for a moment; nobody appears out of the open ground, and nobody comes out of a house whose shutters are bolted. Where a narrow street is jammed, the people in it stand packed and cannot get through themselves, and nobody passes them. A click walks along the lanes, shown as a row of dots, by the lanes he knows: those he has seen on the screen where no house hides them, and those round every corner he has come by, so that the way through a maze is found by the player and not by the path-finder. The player may zoom the map with two fingers, the mouse wheel, or + and -. Every pose of the map's figures is one piece (`node tools/playtest.mjs lanesfolk` shows them all enlarged).
 - A movement says something, and what it says must be true. A nod is a yes and a shake of the head is a no: the engine never gives either by itself, so that nobody, and Paul least of all, seems to agree with what he does not agree with. Whoever is spoken to may raise his brows or blink, and no more. A script directs a nod, a shake of the head or a hand on the chest, or the chapter lists the line in its `ACTING` table: only where the line itself plainly says so, and never on a thought.
 - Two who talk look at each other, and neither hides the other. Whoever speaks faces the one he speaks to, and that one faces him, for as long as the scene lasts; the engine turns them (`say`), and when Paul walks up to someone he stands beside that person, where nobody else is standing. A script names the one spoken to wherever the engine cannot know it: when two other people talk with each other, when a line is meant for someone other than the character the player controls, and when it is meant for nobody in particular, such as a crowd (`to:null`). A script that places someone for a talk sets him beside the other, never on the same spot, and never just in front of him or behind him. The playtest fails on a line whose speaker or listener is turned away or hidden.
 - Narration is never set on a bare black screen. A line told while the picture is dark is read from the narrator's scroll (`shared/scroll.js`): an open roll of papyrus, held in two hands by lamplight. A chapter does nothing for it but fade out, or set the scene `DARK`, and tell. A roll and not a single sheet, because what the narrator tells is for the most part Luke's account, a book. The hands follow the maintainer's example: seen from the back, the thumb resting on its roll with its nail and the folds of its joint, in a short scale of skin tones with the backdrops' own dither. In that picture only the two flames move, with the small glow round each: nothing brightens and darkens the whole of it. The one place where narration stands on a plain screen without the scroll is the words told while the screen is white on the road to Damascus, set in dark ink because the narrator's room is by lamplight.

diff --git a/docs/look-and-sound.md b/docs/look-and-sound.md
@@ -66,7 +66,7 @@ The Athenians are dressed as the publications describe: the men of standing in t
 
 A lane map shows a city at a slant from above, the way the city maps of those games did. Every house stands up from its ground: its front of plaster over a course of dark stone, one or two storeys tall, with its door, its windows and their shutters, under the eaves of a roof of tiles, or now and then a flat one. A house hides the lane behind it, and while the one who is played walks behind a house it fades, so that he is never lost from sight; a covered passage is a house built over a lane, with a dark archway in its front. The lanes are paved with small stones, the streets with slabs and the squares with great ones, and the sun in the west-south-west throws every house's shadow to the right. The people on it are figures about fourteen room pixels tall, in the colors of the period's dyes and undyed wool; a crowd comes in by the gates and along the streets in waves, steps out of the doors of the houses, fills the streets from side to side, and shuffles as it packs before a narrow way in. A click shows the way as a row of gold dots up to a small diamond, and the player may zoom the map with two fingers, the mouse wheel, or + and -. Its sound can lead the player: in the demo the roar of the crowd dies down as the house where Paul is staying comes near, measured along the lanes, so that a dead end beside the house still sounds loud. Lanes meet as forks and bends and never as a crossing, which from above would be a plus sign.
 
-The demo's city follows what is known of Ephesus in Paul's day: the theater in the hollow of Mount Pion, where two main thoroughfares meet; the marble street from in front of it straight to the harbor, with a colonnade on each side, and a gate at the harbor end; the market square beside them; and round them the lower city's grid of streets at right angles, which on this map may cross (the exception for Ephesus in CONTRIBUTING section 3). The house where Paul is staying lies in a court inside one block of the residential quarter.
+The demo's city follows what is known of Ephesus in Paul's day: the theater in the hollow of Mount Pion, where two main thoroughfares meet; the marble street from in front of it straight to the harbor, with a colonnade on each side, and a gate at the harbor end; the market square beside them; and round them the lower city's grid of streets at right angles, which on this map may cross (the exception for Ephesus in CONTRIBUTING section 3). The house where Paul is staying lies in a court inside one block of the residential quarter. Its houses are as large against the people as those of the city maps of those games, their roofs clearly modelled: the slopes the sun finds lit, the others in shade, a bright ridge and a dark line at the eaves. In the uproar some narrow streets are jammed by people who cannot get through themselves; nobody passes them, so the runner has to find another way.
 
 ![The lane map: the runner behind a house that has faded, in a street of the residential quarter](screenshots/lane-map.png)
 
